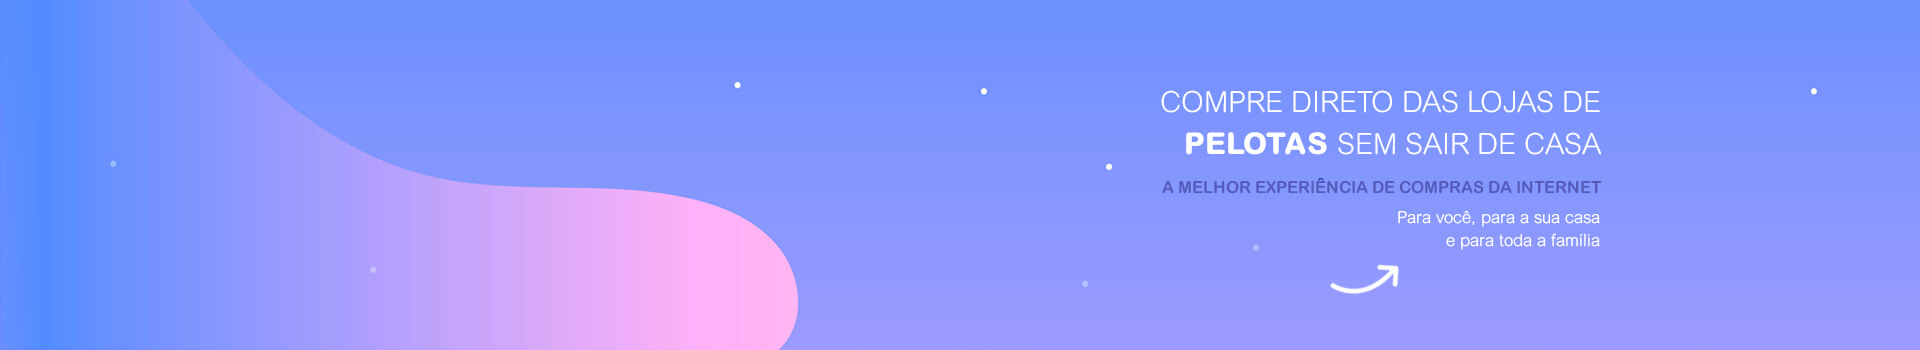
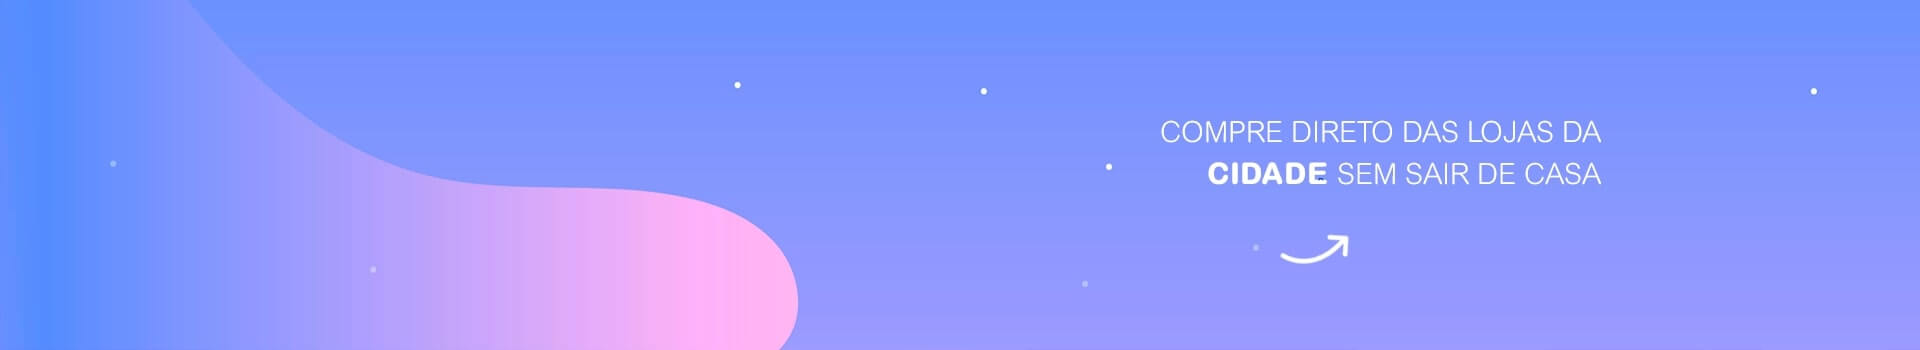
Geral adjusts

diff --git a/resources/views/home.blade.php b/resources/views/home.blade.php
@@ -10,7 +10,7 @@
         <section class="section-content bg-grey">
             <div class="banner-home">
                 <div class="slick-home">
-                    @for ($i = 1; $i <= 5; $i++)
+                    @for ($i = 1; $i <= 4; $i++)
                         <div class="item">
                             <img src="{{ asset('images/banner-desktop/' . $i . '.jpg') }}" alt="Banner {{ $i }}" />
                         </div>
@@ -157,7 +157,7 @@
                     <section class="row newsletter text-center">
                         <div class="col-xs-12">
                             <h2>1 e-mail por semana</h2>
-                            <h3>Com as maiores ofertas, promoções e novidades das lojas de Pelotas</h3>
+                            <h3>Com as maiores ofertas, promoções e novidades das lojas da sua cidade</h3>
                             <span>CANCELE QUANDO QUISER</span>
                         </div>
 
@@ -265,7 +265,7 @@
                     <div class="col-xs-4 text text-right">
                         <span>app</span>
                         <img src="{{ asset('images/logo-naslojas.png') }}" />
-                        <p>as ofertas de Pelotas<br>sempre com você</p>
+                        <p>as ofertas da cidade<br>sempre com você</p>
                     </div>
 
                     <div class="col-xs-4 img">

diff --git a/resources/views/mobile/inc/footer.blade.php b/resources/views/mobile/inc/footer.blade.php
@@ -5,12 +5,12 @@
                 <a href="https://play.google.com/store/apps/details?id=app.naslojas" target="_blank">Baixe nosso app</a>
                 <a href="{{ route('client-register-get') }}">Cadastrar</a>
                 <a href="{{ route('client-login-get') }}">Entrar</a>
-                <a href="#" class="show-city-modal">{{ Cookie::get('city_title') ? Cookie::get('city_title') . '/' . Cookie::get('state_letter') : 'Pelotas/RS' }}</a>
+                <!-- <a href="#" class="show-city-modal">{{ Cookie::get('city_title') ? Cookie::get('city_title') . '/' . Cookie::get('state_letter') : 'Pelotas/RS' }}</a> -->
                 <a href="{{ route('rules') }}" target="_blank">Regras</a>
                 <a href="{{ route('terms-use') }}" target="_blank">Termos de uso</a>
                 <a href="{{ route('privacy-policy') }}" target="_blank">Privacidade</a>
                 <!-- <a href="{{ route('store-advertise') }}">Vender online</a> -->
-                <a href="{{ route('store-advertise') }}#planos">Planos</a>
+                <!-- <a href="{{ route('store-advertise') }}#planos">Planos</a> -->
                 <!-- <a href="mailto:naslojas.com" class="email">contato@naslojas.com</a> -->
                 <a href="https://api.whatsapp.com/send?phone=5553991786097" class="phone">whatsapp 53 9 9178 6097</a>
             </div>

diff --git a/resources/views/inc/footer.blade.php b/resources/views/inc/footer.blade.php
@@ -26,11 +26,11 @@
                         <a href="{{ route('terms-use') }}" target="_blank">Termos de uso</a>
                         <a href="{{ route('privacy-policy') }}" target="_blank">Privacidade</a>
                         <!-- <a href="{{ route('store-advertise') }}">Vender online</a> -->
-                        <a href="{{ route('store-advertise') }}#planos">Planos</a>
+                        <!-- <a href="{{ route('store-advertise') }}#planos">Planos</a> -->
                     </div>
 
                     <div class="col-xs-5">
-                        <a href="#" class="city show-city-modal">{{ Cookie::get('city_title') ? Cookie::get('city_title') . '/' . Cookie::get('state_letter') : 'Pelotas/RS' }}</a>
+                        <!-- <a href="#" class="city show-city-modal">{{ Cookie::get('city_title') ? Cookie::get('city_title') . '/' . Cookie::get('state_letter') : 'Pelotas/RS' }}</a> -->
 
                         <!-- <a href="mailto:naslojas.com" class="email">contato@naslojas.com</a> -->
 

diff --git a/resources/views/inc/top-nav.blade.php b/resources/views/inc/top-nav.blade.php
@@ -49,7 +49,7 @@
                 {!! Form::text('keyword', $keyword ?? '', ['placeholder' => 'Digite aqui o produto que voce procura na loja ' . $store->name]) !!}
         @else
             {!! Form::open(['method' => 'GET', 'route' => ['search-products', Cookie::get('city_slug'), Cookie::get('state_letter_lc')], 'id' => 'form-search']) !!}
-                {!! Form::text('keyword', $keyword ?? '', ['placeholder' => 'Digite aqui o produto que voce procura nas lojas de Pelotas']) !!}
+                {!! Form::text('keyword', $keyword ?? '', ['placeholder' => 'Digite aqui o produto que voce procura']) !!}
         @endif
                 {!! Form::hidden('order', $search_order ?? '', ['id' => 'search-order']) !!}
                 {!! Form::hidden('gender', $search_gender ?? '', ['id' => 'search-gender']) !!}

diff --git a/resources/views/mobile/home.blade.php b/resources/views/mobile/home.blade.php
@@ -9,7 +9,7 @@
     <div class="page-home">
         <section class="banner-home">
             <div class="slick-home-banner">
-                @for ($i = 1; $i <= 5; $i++)
+                @for ($i = 1; $i <= 3; $i++)
                     <div class="item">
                         <img src="{{ asset('images/banner-mobile/' . $i . '.jpg') }}" alt="Banner {{ $i }}" />
                     </div>
@@ -140,7 +140,7 @@
         <section class="newsletter text-center">
             <div class="text">
                 <h2>1 e-mail por semana</h2>
-                <h3>Com as maiores ofertas, promoções e novidades das lojas de Pelotas</h3>
+                <h3>Com as maiores ofertas, promoções e novidades das lojas da sua cidade</h3>
                 <span>CANCELE QUANDO QUISER</span>
             </div>
 

diff --git a/resources/views/mobile/inc/_know.blade.php b/resources/views/mobile/inc/_know.blade.php
@@ -3,7 +3,7 @@
         <div class="content">
             <img src="{{ asset('images/know/shirt.png') }}" class="img-shirt" />
 
-            <span>Confira as ofertas<br>das lojas de Pelotas</span>
+            <span>Confira as ofertas<br>das lojas da cidade</span>
         </div>
 
         <div class="content">
@@ -15,7 +15,7 @@
         <div class="content">
             <img src="{{ asset('images/know/truck.png') }}" class="img-truck" />
 
-            <span>Frete para Pelotas<br>a partir de R$ 5,00</span>
+            <span>Entrega na cidade<br>a partir de R$ 5,00</span>
         </div>
 
         <div class="content">

diff --git a/resources/views/inc/know.blade.php b/resources/views/inc/know.blade.php
@@ -2,7 +2,7 @@
     <div class="col-xs-3">
         <img src="{{ asset('images/know/shirt.png') }}" class="img-shirt" />
 
-        <span>Confira as ofertas<br>das lojas de Pelotas</span>
+        <span>Confira as ofertas<br>das lojas da cidade</span>
     </div>
 
     <div class="col-xs-3">
@@ -14,7 +14,7 @@
     <div class="col-xs-3">
         <img src="{{ asset('images/know/truck.png') }}" class="img-truck" />
 
-        <span>Frete para Pelotas<br>a partir de R$ 5,00</span>
+        <span>Entrega na cidade<br>a partir de R$ 5,00</span>
     </div>
 
     <div class="col-xs-3">

diff --git a/resources/views/show-product.blade.php b/resources/views/show-product.blade.php
@@ -4,11 +4,11 @@
     <div class="container page-show-product">
         @include('inc.know')
 
-        <div class="row">
+        <?php /*<div class="row">
             <div class="col-12">
                 @include ('inc._search-navigation')
             </div>
-        </div>
+        </div>*/ ?>
 
         <div class="row">
             <div class="col-xs-6 col-xs-offset-1">
